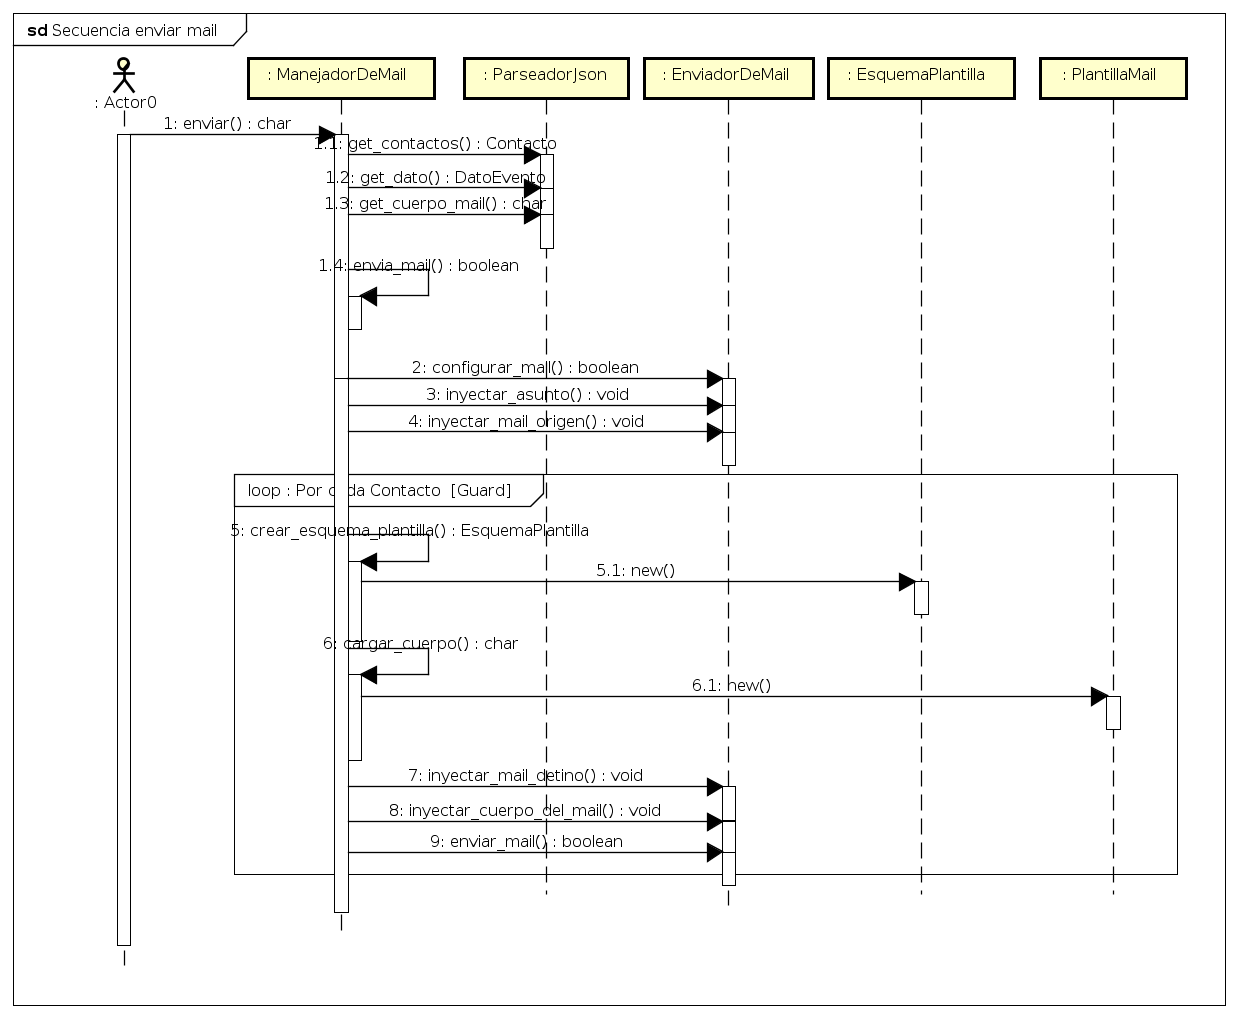
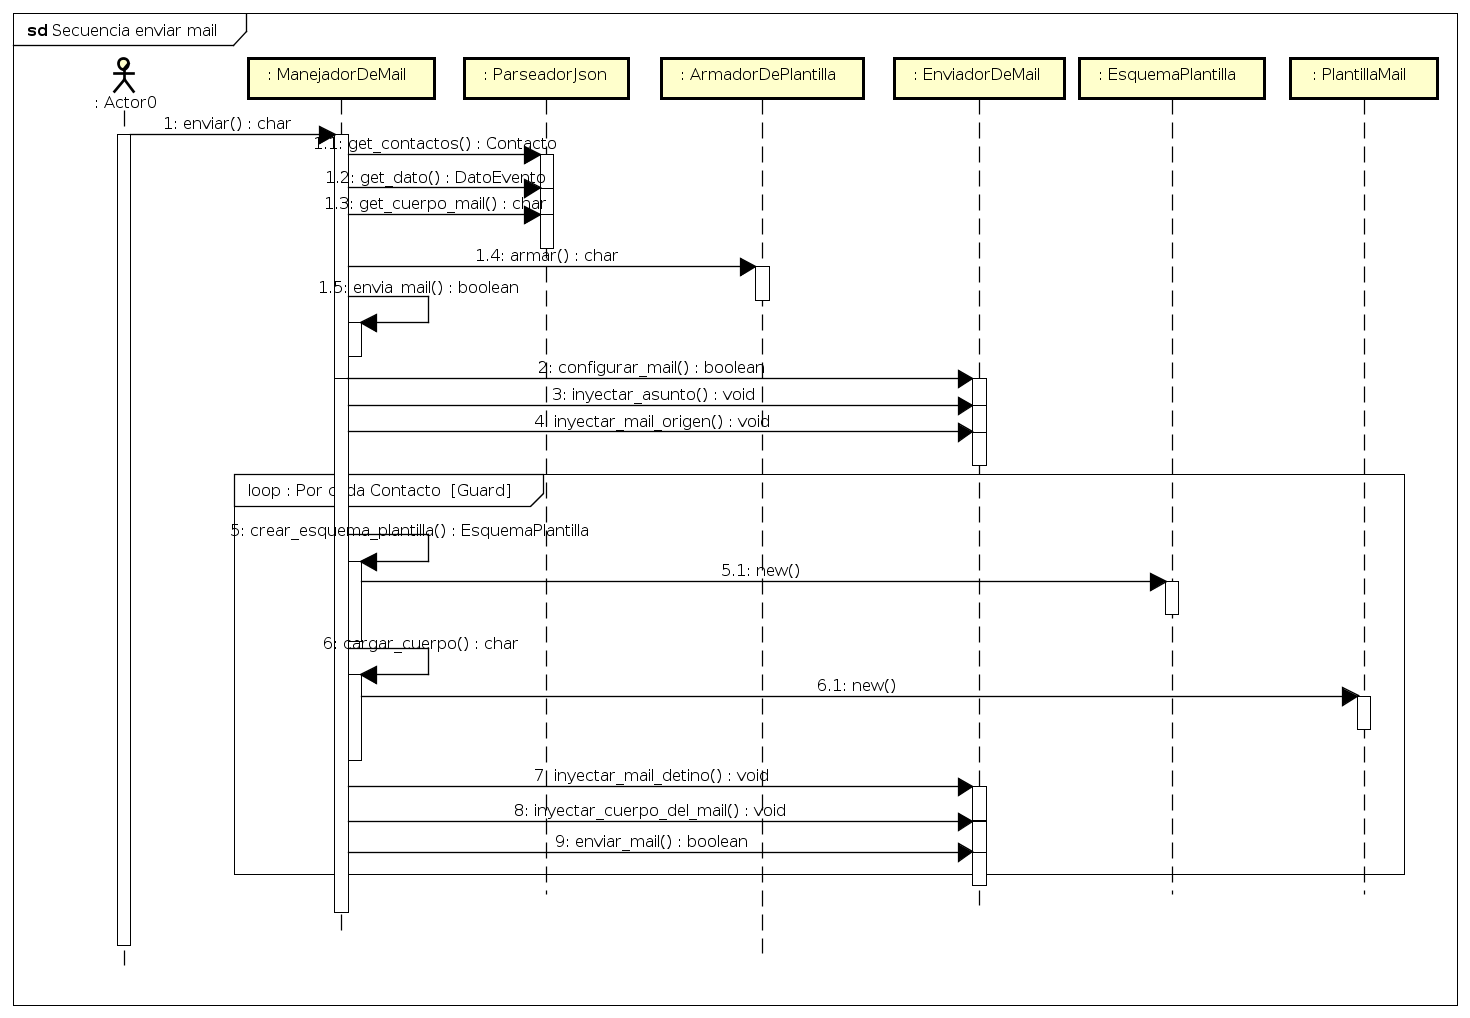
modificando README

diff --git a/README.md b/README.md
@@ -43,9 +43,13 @@ Se espera recibir un JSON que contenga los siguientes JSON:
 >Datos: se espera recibir un JSON datos que contenga, de carácter obligatorio, las siguientes claves: 
 +   remitente, asunto, nombre_evento, lugar_evento, fecha_del_evento y mail_de_confirmacion.
 
-### Aclaración
+### Aclaraciones
 Los placeholders estándar, que pudieran existir dentro del JSON template, deben ser idénticos a las claves que contiene el JSON de datos.
->Ejemplo: si en Template existiera un placeholder <nombre_evento> Datos debe contener la clave nombre_evento. En caso de que en Datos la clave que contenga sea, por ejemplo, nombre_del_evento no se realizará el reemplazo.  
+>Ejemplo: si en Template existiera un placeholder <nombre_evento> Datos debe contener la clave nombre_evento. En caso de que en Datos la clave que contenga sea, por ejemplo, nombre_del_evento no se realizará el reemplazo.
+
+El diagrama Secuencia enviar mail contiene una vista general de la solución implementada. Para poder obtener una visión más exacta es necesario observar los diagramas
+>Secuencia armar estructura de contactos y datos del evento.
+>Secuencia de armado del template.
 
 ### Comportamiento
 +	Ante un contacto incompleto, falta de algún atributo, se lanza una excepción y se notifica por consola que se excluyó un contacto.
